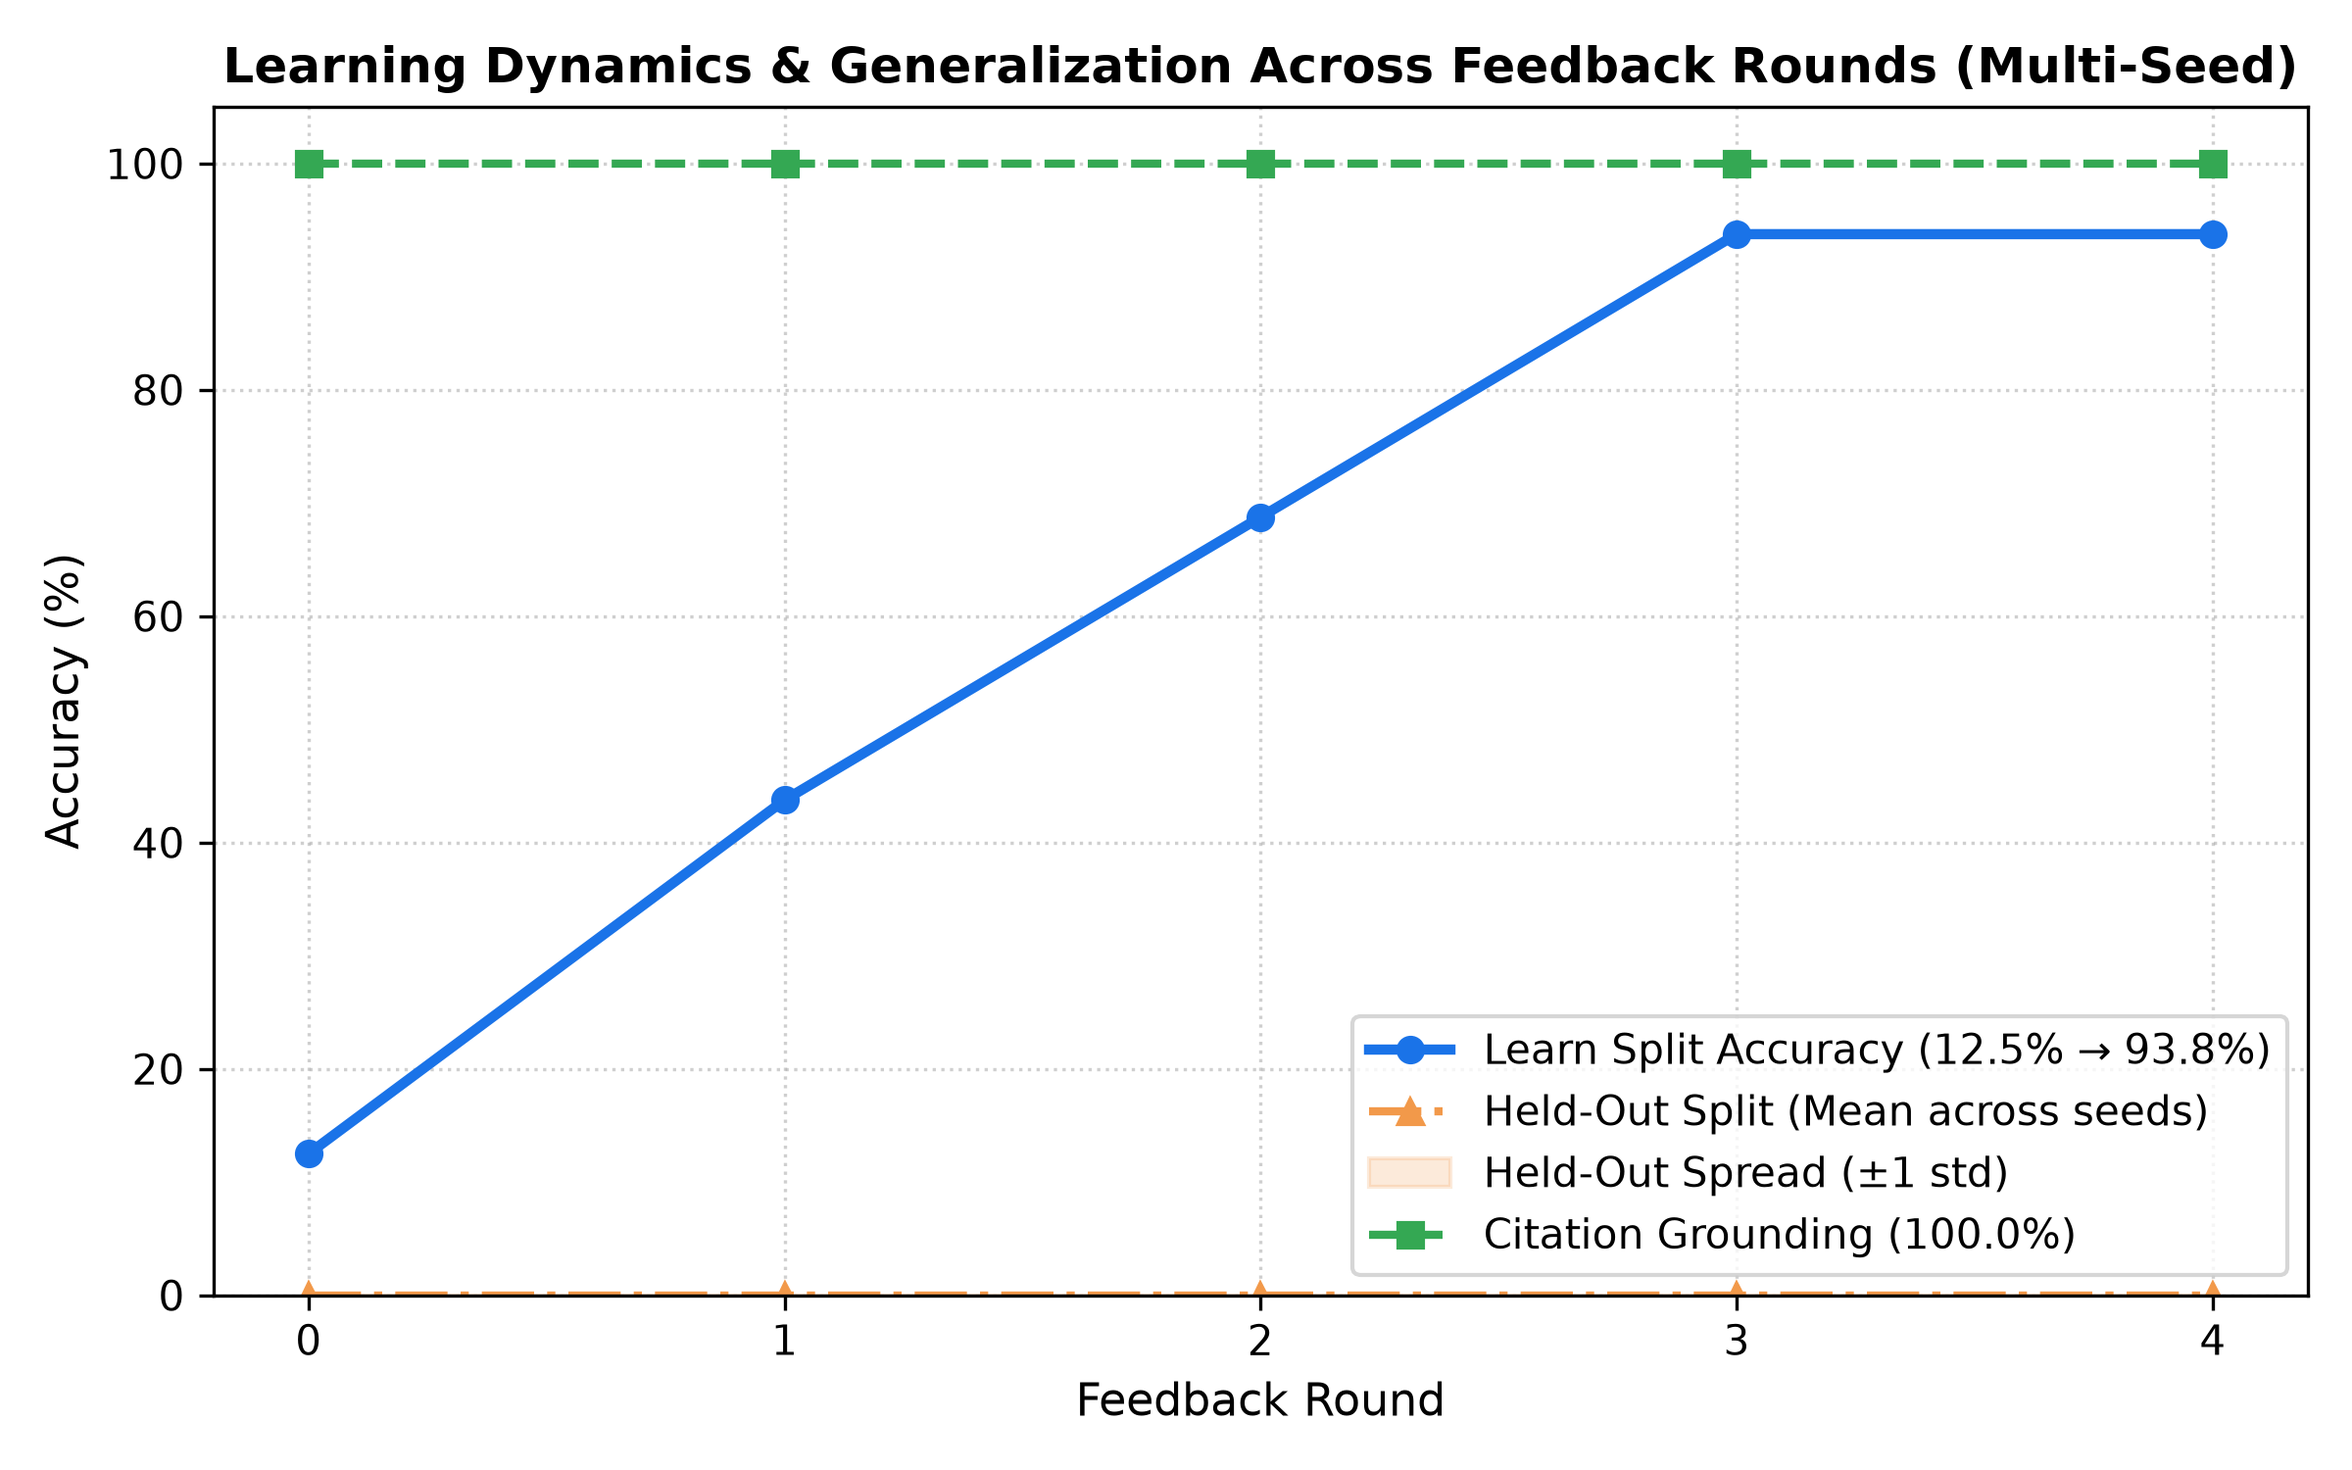
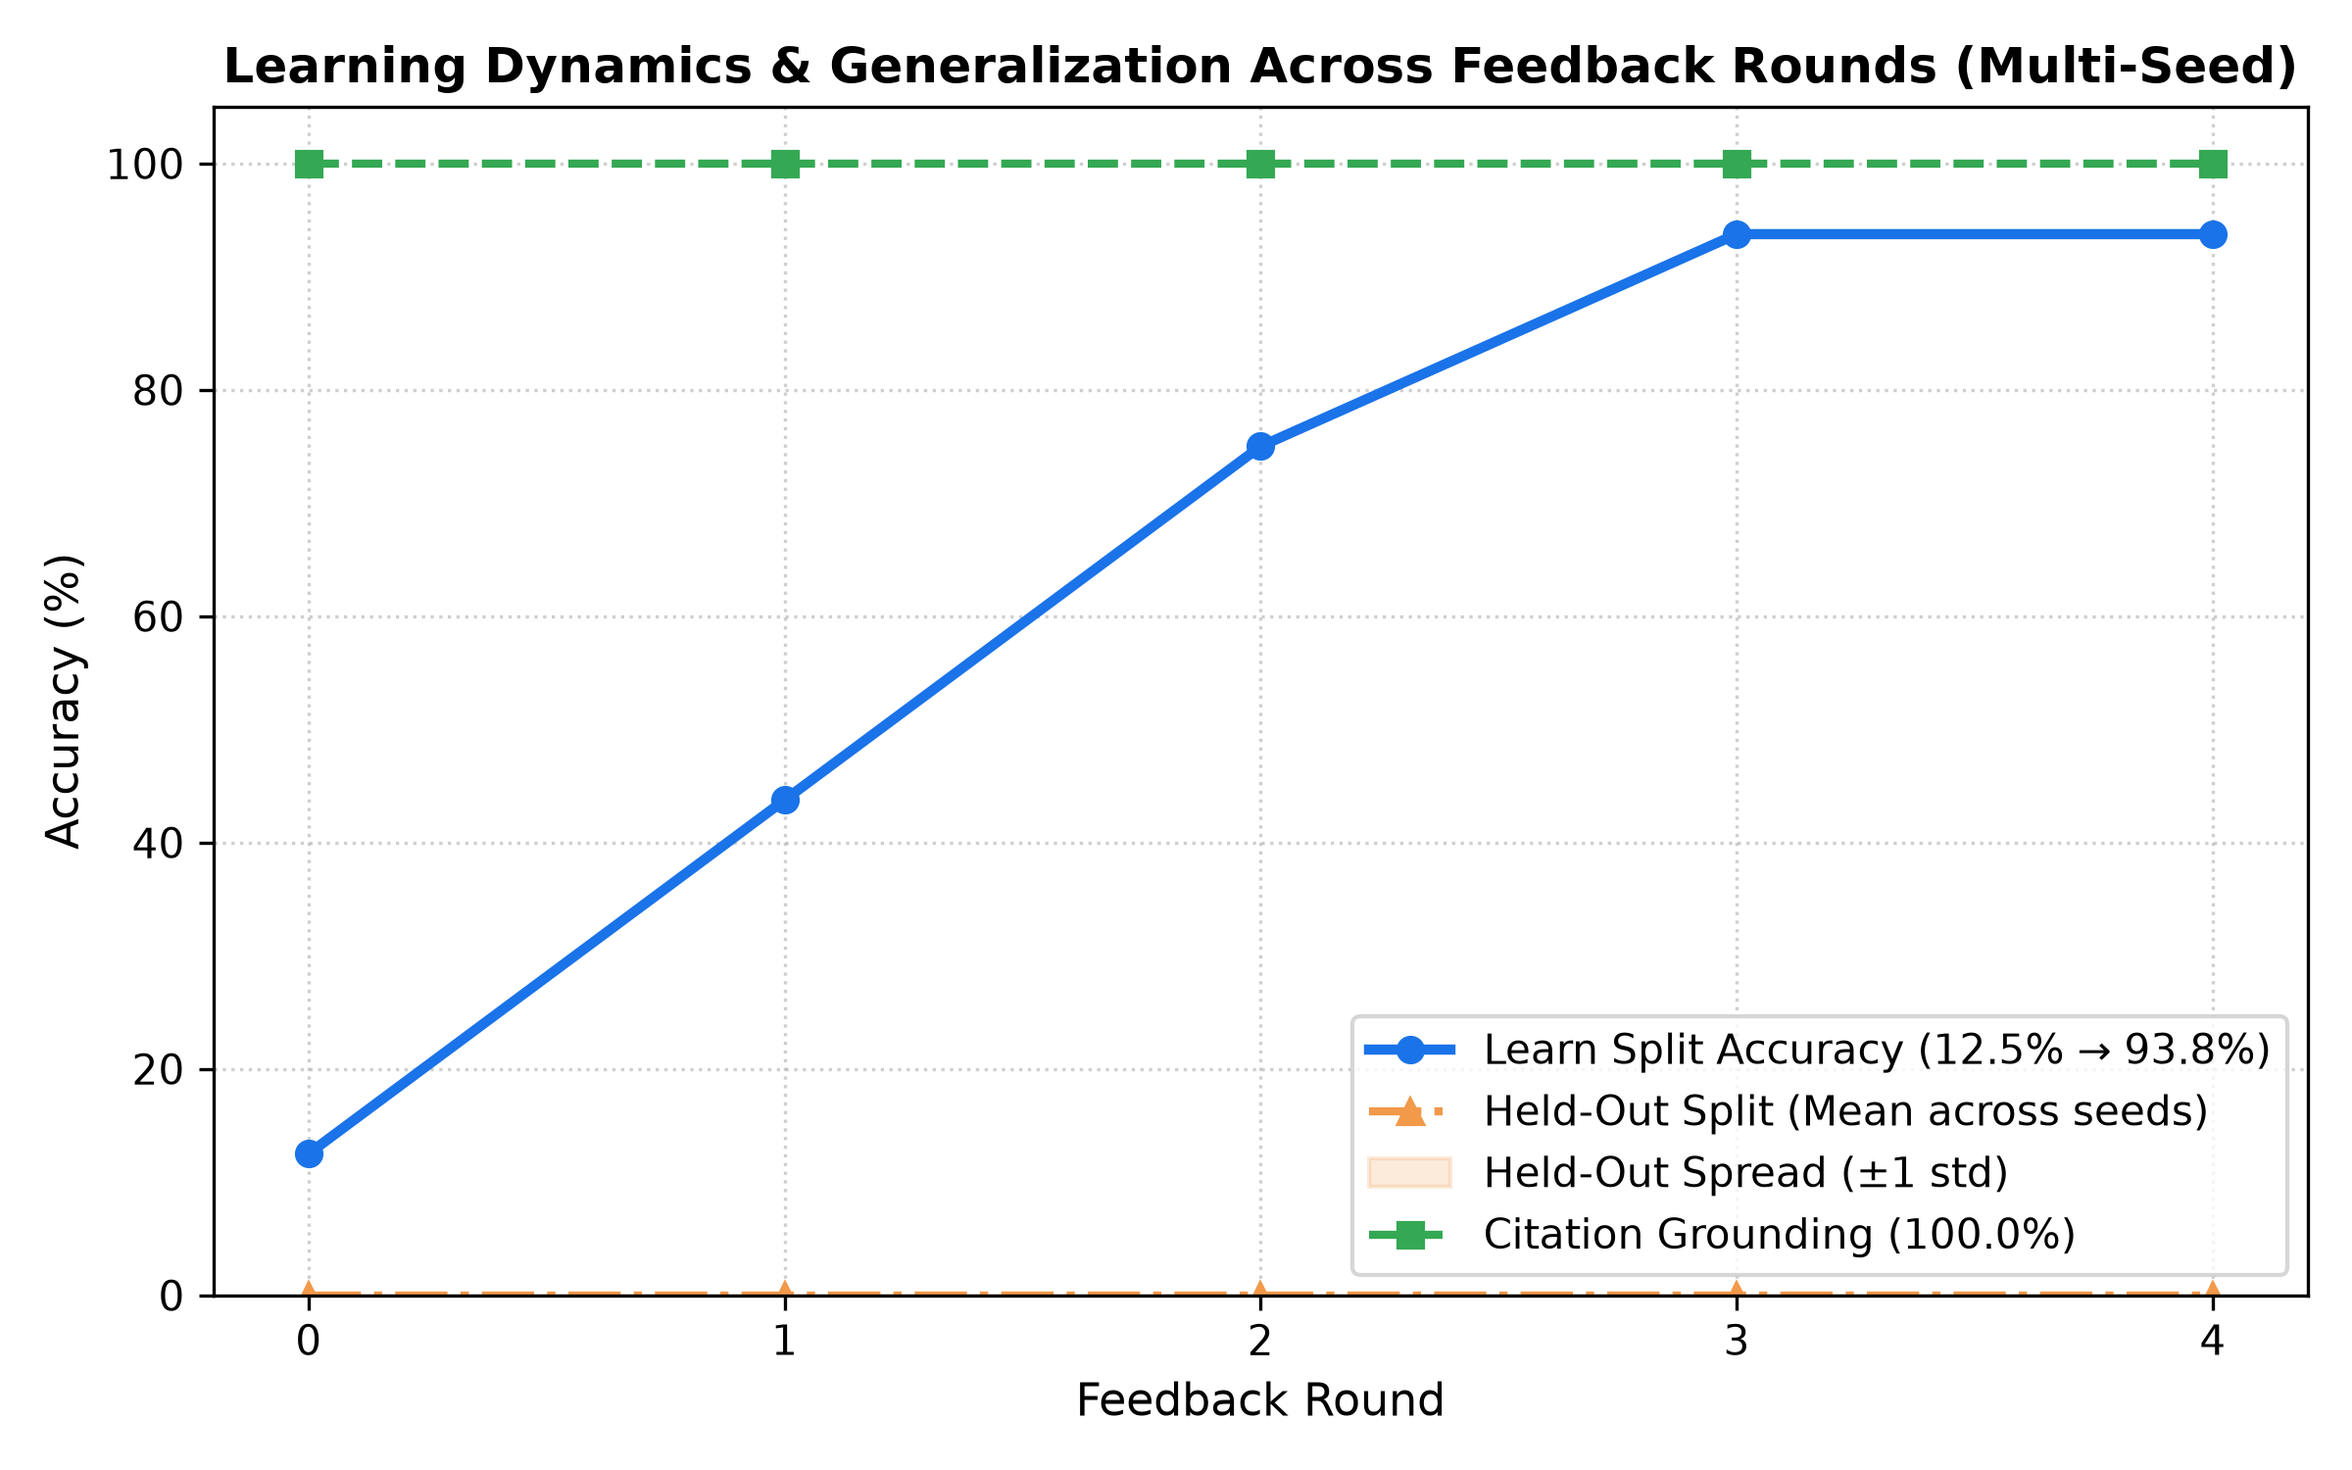
fix: quarantine needs_review feedback and unknown companies with comprehensive test coverage

Changed region(s): [[0.3438, 0.1533, 0.75, 0.552]]

diff --git a/main.py b/main.py
@@ -188,37 +188,42 @@ def run_full_reproduction() -> None:
     rounds_data = {}
     for r in range(1, 5):
         round_items = [fb for fb in feedback_items if fb.get("round") == r]
-        accepted_count = 0
+        cleared_count = 0
+        needs_review_count = 0
         rejected_count = 0
 
         for fb in round_items:
             q_obj = q_map.get(fb.get("question_id"), {})
             log_entry = gate.process_feedback_item(fb, q_obj)
             if log_entry["is_valid"]:
-                accepted_count += 1
-                lesson = log_entry.get("retrieval_lesson") or {}
-                company = q_obj.get("company", "MSFT" if "MSFT" in fb.get("question_id", "") else "AAPL")
-                rule = PlaybookRule(
-                    rule_id=f"RULE-{fb['id']}",
-                    topic=agent_msft.identify_topic(fb["correction"]),
-                    condition=f"Verified analyst correction ({fb['analyst']})",
-                    action=fb["correction"],
-                    expansion_terms=lesson.get("expansion_terms", []),
-                    question_id=fb.get("question_id"),
-                    company=company,
-                    verified_answer=fb.get("correction"),
-                    verified_citations=fb.get("citations"),
-                    contributing_analyst=fb.get("analyst"),
-                    trust_weight=log_entry.get("trust_score", 1.0)
-                )
-                # Priority 3: Company-aware routing to prevent cross-company contamination
-                if company == "MSFT":
-                    playbook_msft.add_rule(rule)
-                elif company == "AAPL":
-                    playbook_aapl.add_rule(rule)
+                if log_entry.get("needs_review"):
+                    needs_review_count += 1
+                    # Quarantined for partner review; not automatically ingested into active playbook
                 else:
-                    playbook_msft.add_rule(rule)
-                    playbook_aapl.add_rule(rule)
+                    cleared_count += 1
+                    lesson = log_entry.get("retrieval_lesson") or {}
+                    company = q_obj.get("company", "MSFT" if "MSFT" in fb.get("question_id", "") else "AAPL")
+                    rule = PlaybookRule(
+                        rule_id=f"RULE-{fb['id']}",
+                        topic=agent_msft.identify_topic(fb["correction"]),
+                        condition=f"Verified analyst correction ({fb['analyst']})",
+                        action=fb["correction"],
+                        expansion_terms=lesson.get("expansion_terms", []),
+                        question_id=fb.get("question_id"),
+                        company=company,
+                        verified_answer=fb.get("correction"),
+                        verified_citations=fb.get("citations"),
+                        contributing_analyst=fb.get("analyst"),
+                        trust_weight=log_entry.get("trust_score", 1.0)
+                    )
+                    # Priority 3: Company-aware routing with unknown-company quarantine
+                    if company == "MSFT":
+                        playbook_msft.add_rule(rule)
+                    elif company == "AAPL":
+                        playbook_aapl.add_rule(rule)
+                    else:
+                        # Unknown company: quarantined, never shared across playbooks
+                        pass
             else:
                 rejected_count += 1
 
@@ -227,14 +232,16 @@ def run_full_reproduction() -> None:
         rounds_data[f"round_{r}"] = {
             "round": r,
             "feedback_items": len(round_items),
-            "accepted": accepted_count,
+            "accepted": cleared_count + needs_review_count,
+            "cleared": cleared_count,
+            "needs_review": needs_review_count,
             "rejected": rejected_count,
             "held_out_metrics": held_eval,
             "learn_metrics": learn_eval,
-            "active_rules_count": len(playbook_msft.rules)
+            "active_rules_count": len(playbook_msft.rules) + len(playbook_aapl.rules)
         }
-        print(f" • Round {r}: {len(round_items)} feedback items processed -> {accepted_count} Accepted, {rejected_count} Rejected (Noise Filter).")
-        print(f"            Playbook Updated: +{accepted_count} verified rules distilled | Total Active Playbook Rules: {len(playbook_msft.rules)}")
+        print(f" • Round {r}: {len(round_items)} feedback items processed -> {cleared_count} Cleared, {needs_review_count} NeedsReview, {rejected_count} Rejected.")
+        print(f"            Playbook Updated: +{cleared_count} cleared rules distilled | Total Active Playbook Rules: {len(playbook_msft.rules) + len(playbook_aapl.rules)}")
         print(f"            Held-Out Accuracy: Overall={held_eval['overall_accuracy']*100:.1f}% (Grounding={held_eval['citation_grounding']*100:.1f}%, Factual={held_eval['factual_accuracy']*100:.1f}%)")
 
     # Step 6: Analyst Reliability Analysis
@@ -287,7 +294,7 @@ def run_full_reproduction() -> None:
             for fb in shuffled:
                 q_obj = q_map.get(fb.get("question_id"), {})
                 log_entry = s_gate.process_feedback_item(fb, q_obj)
-                if log_entry["is_valid"]:
+                if log_entry["is_valid"] and not log_entry.get("needs_review"):
                     lesson = log_entry.get("retrieval_lesson") or {}
                     company = q_obj.get("company", "MSFT" if "MSFT" in fb.get("question_id", "") else "AAPL")
                     rule = PlaybookRule(
@@ -303,14 +310,13 @@ def run_full_reproduction() -> None:
                         contributing_analyst=fb.get("analyst"),
                         trust_weight=log_entry.get("trust_score", 1.0)
                     )
-                    # Priority 3: Company-aware routing in multi-seed evaluation
+                    # Priority 3: Company-aware routing with unknown-company quarantine
                     if company == "MSFT":
                         s_pb_msft.add_rule(rule)
                     elif company == "AAPL":
                         s_pb_aapl.add_rule(rule)
                     else:
-                        s_pb_msft.add_rule(rule)
-                        s_pb_aapl.add_rule(rule)
+                        pass
 
             r_a, r_g = eval_s_split(held_out_questions)
             seed_round_held_acc[r].append(r_a)

diff --git a/tests/test_priorities.py b/tests/test_priorities.py
@@ -29,6 +29,7 @@ class TestPriorityRemediations(unittest.TestCase):
         burden_an01 = gate.get_review_burden("AN-01")
         self.assertTrue(burden_an01["flag_borderline_for_review"])
         self.assertIn("Elevated Scrutiny", burden_an01["tier"])
+        self.assertEqual(burden_an01["min_overlap_ratio"], 0.40)
         
         # AN-01 valid feedback item (FB-004 style, verified evidence)
         valid_fb = {
@@ -45,6 +46,54 @@ class TestPriorityRemediations(unittest.TestCase):
         res = gate.process_feedback_item(valid_fb, {"company": "MSFT", "question": "Customer concentration"})
         self.assertTrue(res["is_valid"], "Factually correct feedback must never be rejected purely for analyst ID")
         self.assertTrue(res["needs_review"], "Low-trust analyst feedback must be flagged for review")
+
+    def test_priority_1_needs_review_quarantine(self):
+        """Priority 1 Edge Case: Valid feedback flagged with needs_review must be quarantined and excluded from active playbooks."""
+        gate = AnalystVerificationGate({"MSFT": self.msft_parser, "AAPL": self.aapl_parser})
+        gate.analyst_history["AN-01"] = {"accepted": 1, "rejected": 3, "total": 4}
+
+        valid_fb = {
+            "id": "FB-TEST-QUARANTINE",
+            "round": 1,
+            "analyst": "AN-01",
+            "question_id": "MSFT-L02",
+            "correction": "No single customer was above 10% of revenue in fiscal 2024 to 2026.",
+            "citations": [{
+                "type": "sentence",
+                "quote": "No sales to an individual customer or country other than the United States accounted for more than 10% of revenue for fiscal years 2026, 2025, or 2024."
+            }]
+        }
+        log_entry = gate.process_feedback_item(valid_fb, {"company": "MSFT", "question": "Customer concentration"})
+        self.assertTrue(log_entry["is_valid"])
+        self.assertTrue(log_entry["needs_review"])
+
+        # Operational assimilation decision: must be quarantined if needs_review is True
+        pb_msft = DiligencePlaybook()
+        if log_entry["is_valid"] and not log_entry.get("needs_review"):
+            pb_msft.add_rule(PlaybookRule("R-1", "topic", "cond", "action", question_id="MSFT-L02", company="MSFT"))
+
+        self.assertEqual(len(pb_msft.rules), 0, "Quarantined needs_review feedback must not be added to active playbook")
+
+    def test_priority_1_evidentiary_overlap_threshold(self):
+        """Priority 1: Confirms min_overlap_ratio rejects poorly supported claims under elevated scrutiny."""
+        gate = AnalystVerificationGate({"MSFT": self.msft_parser, "AAPL": self.aapl_parser})
+        gate.analyst_history["AN-01"] = {"accepted": 1, "rejected": 3, "total": 4}
+
+        # Feedback with very weak token overlap relative to long claim length
+        weak_fb = {
+            "id": "FB-TEST-WEAK",
+            "round": 1,
+            "analyst": "AN-01",
+            "question_id": "MSFT-L02",
+            "correction": "Microsoft customer enterprise agreements require multi-year commitments with recurring billing cycles across global strategic accounts.",
+            "citations": [{
+                "type": "sentence",
+                "quote": "No sales to an individual customer or country other than the United States accounted for more than 10% of revenue for fiscal years 2026, 2025, or 2024."
+            }]
+        }
+        is_valid, reason = gate.verify_feedback(weak_fb, {"company": "MSFT", "question": "Customer concentration"})
+        self.assertFalse(is_valid)
+        self.assertIn("Insufficient citation support overlap", reason)
 
     def test_priority_2_feedback_retrieval_expansion(self):
         """Priority 2: Confirms retrieval lessons are extracted and populated into PlaybookRule."""
@@ -109,6 +158,37 @@ class TestPriorityRemediations(unittest.TestCase):
         self.assertIsNone(pb_msft.get_rule_for_question("AAPL-L01"), "AAPL rules must not leak into MSFT playbook")
         self.assertIsNotNone(pb_aapl.get_rule_for_question("AAPL-L01"))
         self.assertIsNone(pb_aapl.get_rule_for_question("MSFT-L02"), "MSFT rules must not leak into AAPL playbook")
+
+    def test_priority_3_unknown_company_quarantine(self):
+        """Priority 3 Edge Case: Confirms unknown/unrecognized companies are quarantined and not added to either playbook."""
+        pb_msft = DiligencePlaybook()
+        pb_aapl = DiligencePlaybook()
+
+        test_items = [
+            {"company": "UNKNOWN", "id": "UNK-01"},
+            {"company": "GOOGL", "id": "GOOGL-01"},
+            {"company": "", "id": "EMPTY-01"},
+        ]
+
+        for item in test_items:
+            rule = PlaybookRule(
+                rule_id=f"RULE-{item['id']}",
+                topic="general",
+                condition="Verified",
+                action="Generic text",
+                company=item["company"]
+            )
+            # Apply exact routing logic as in main.py
+            if item["company"] == "MSFT":
+                pb_msft.add_rule(rule)
+            elif item["company"] == "AAPL":
+                pb_aapl.add_rule(rule)
+            else:
+                # Quarantined
+                pass
+
+        self.assertEqual(len(pb_msft.rules), 0, "Unknown companies must never be routed to MSFT playbook")
+        self.assertEqual(len(pb_aapl.rules), 0, "Unknown companies must never be routed to AAPL playbook")
 
     def test_priority_4_learning_dynamics(self):
         """Priority 4: Confirms the agent demonstrates genuine accuracy growth on learn questions."""

diff --git a/src/feedback/analyst_gate.py b/src/feedback/analyst_gate.py
@@ -180,6 +180,13 @@ class AnalystVerificationGate:
         if not overlap and not num_overlap:
             return False, "Grounding error: Attached citations do not support or reference the correction claim."
 
+        # Operational evidentiary threshold (Priority 1): Check min overlap ratio required by analyst trust policy
+        policy = self.get_review_burden(aid)
+        total_claim_tokens = max(len(content_tokens) + len(metric_numbers), 1)
+        overlap_ratio = (len(overlap) + len(num_overlap)) / total_claim_tokens
+        if overlap_ratio < policy["min_overlap_ratio"]:
+            return False, f"Grounding error: Insufficient citation support overlap ({overlap_ratio:.1%} < required {policy['min_overlap_ratio']:.1%} for {policy['tier']})."
+
         # 3b. Entity Hallucination Check (Capitalized proper nouns absent from 10-K filing)
         stopwords = {
             "total", "net", "sales", "revenue", "gross", "margin", "fiscal", "apple", "microsoft",
@@ -357,7 +364,11 @@ class AnalystVerificationGate:
         prior_trust = self.get_analyst_trust(aid)
         is_valid, reason = self.verify_feedback(feedback, question)
         policy = self.get_review_burden(aid)
-        needs_review = policy["flag_borderline_for_review"] or (not is_valid and "Security rejection" not in reason)
+
+        # Operational review policy:
+        # If valid but from a low-trust analyst (trust < 0.45), flag as needs_review
+        # so it is quarantined for partner confirmation before entering automated playbook.
+        needs_review = bool(is_valid and policy["flag_borderline_for_review"])
 
         # Update analyst tracking AFTER independent assessment (Priority 1)
         if aid in self.analyst_history:
